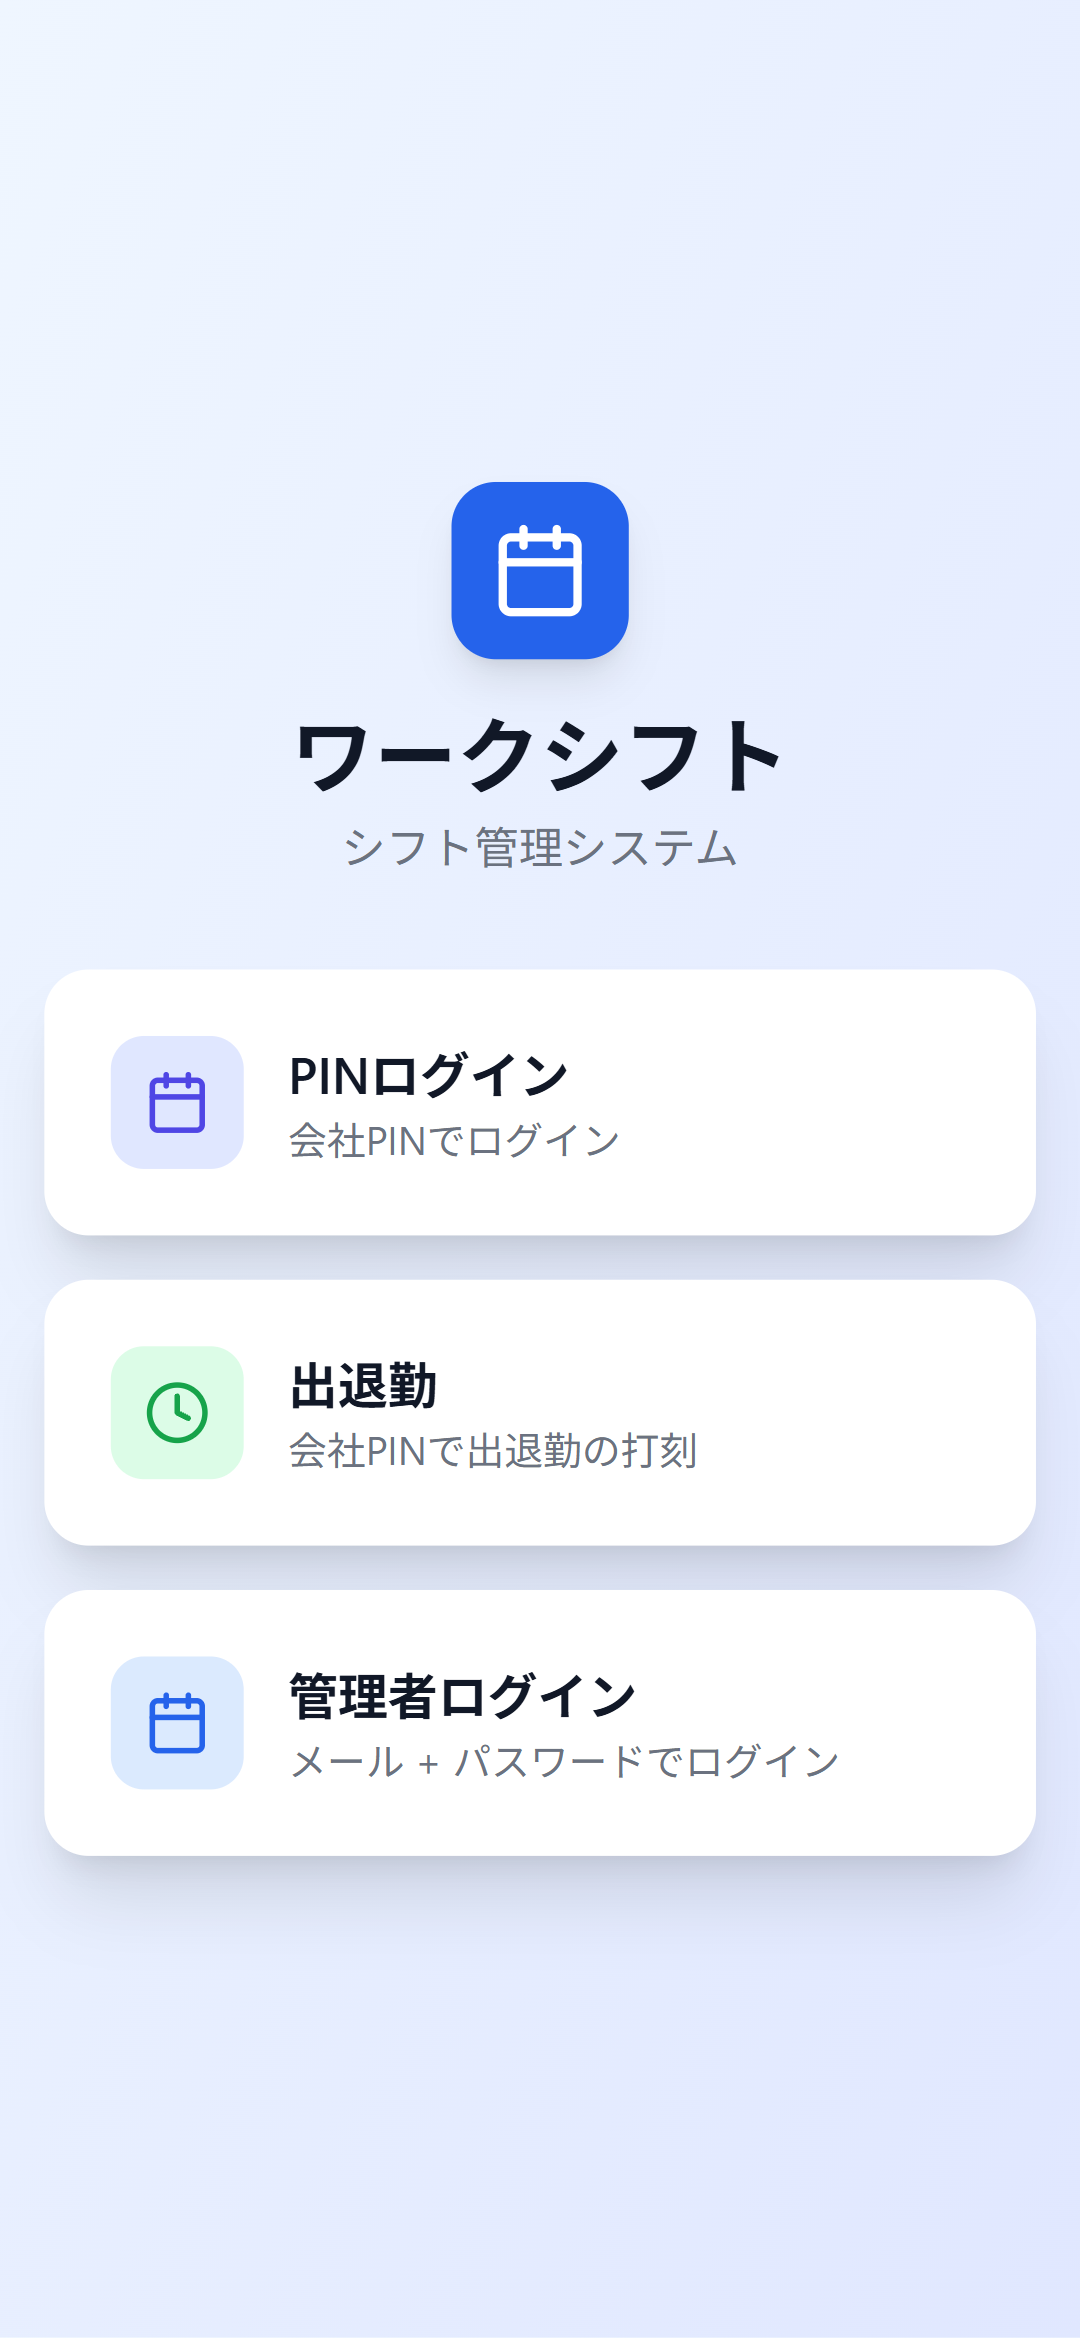
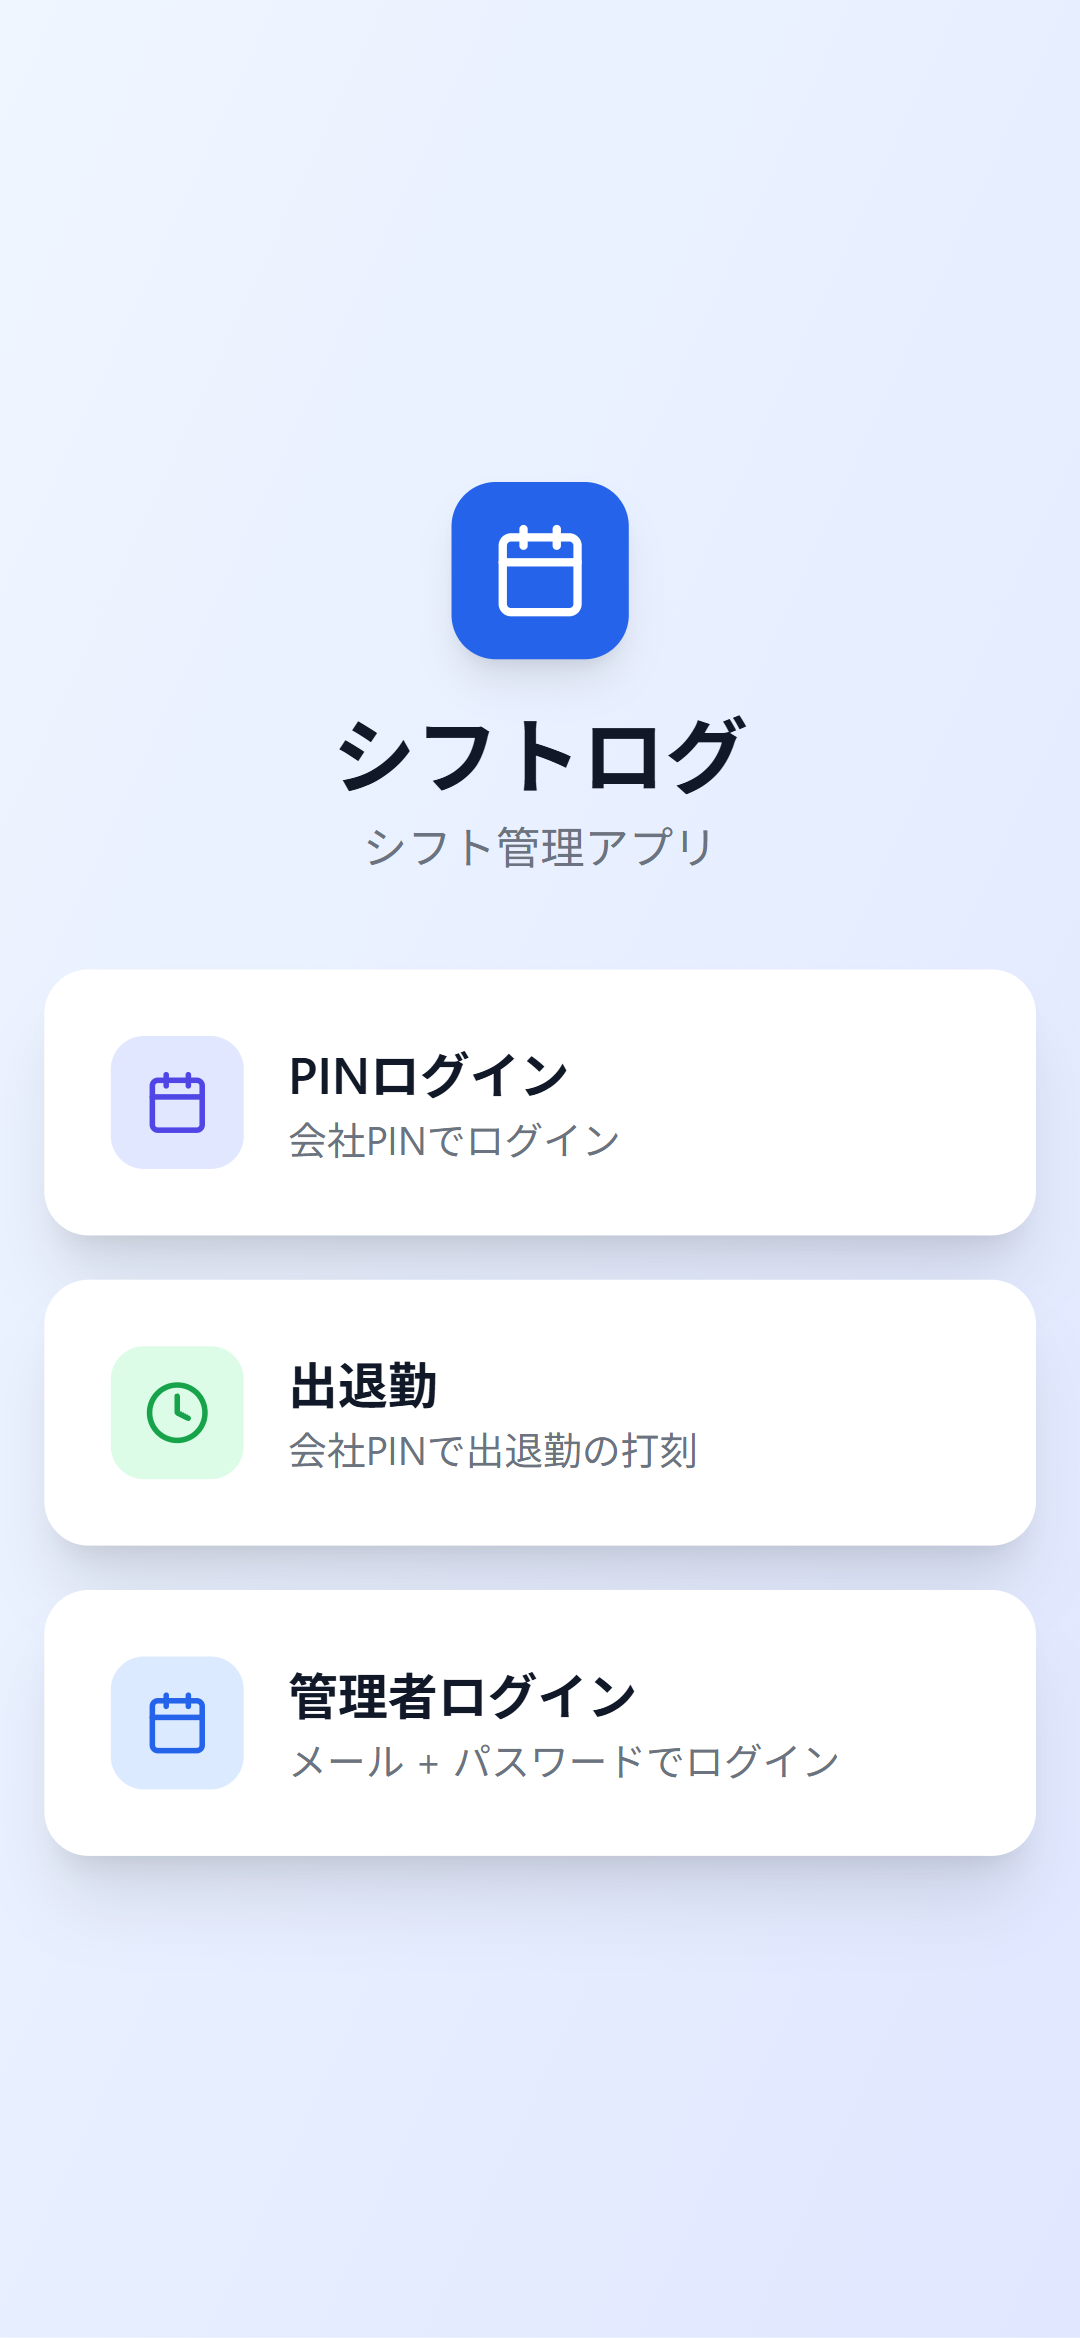
assets: ストア用スクリーンショット撮り直し（シフトログ名称反映済み）

Changed region(s): [[0.275, 0.3122, 0.7333, 0.3747]]

diff --git a/store-assets/take-screenshots.js b/store-assets/take-screenshots.js
@@ -8,58 +8,85 @@ const wait = (ms) => new Promise(r => setTimeout(r, ms));
 async function main() {
   const browser = await puppeteer.launch({ headless: true, args: ['--no-sandbox'] });
 
+  // Mobile viewport (iPhone 14 Pro equivalent, scaled for 1080x1920 output)
   const mobile = await browser.newPage();
   await mobile.setViewport({ width: 390, height: 844, deviceScaleFactor: 2.77 });
 
-  // 1. Login page
+  // 1. Login select screen
   await mobile.goto(`${BASE_URL}/login`, { waitUntil: 'networkidle2', timeout: 30000 });
-  await wait(1500);
+  await wait(2000);
   await mobile.screenshot({ path: path.join(OUT, '01_login.png'), fullPage: false });
-  console.log('1/6 Login page');
+  console.log('1/7 Login page');
 
-  // Login
+  // Click "管理者ログイン" button (3rd button on the select screen)
   try {
-    await mobile.type('input[type="email"]', 'admin@example.com');
-    await mobile.type('input[type="password"]', 'admin123');
-    const buttons = await mobile.$$('button[type="submit"]');
-    if (buttons.length > 0) await buttons[0].click();
-    await mobile.waitForNavigation({ waitUntil: 'networkidle2', timeout: 15000 }).catch(() => {});
-    await wait(2000);
+    const buttons = await mobile.$$('button');
+    for (const btn of buttons) {
+      const text = await mobile.evaluate(el => el.textContent, btn);
+      if (text && text.includes('管理者ログイン')) {
+        await btn.click();
+        break;
+      }
+    }
+    await wait(1000);
+
+    // Fill login form
+    const emailInput = await mobile.$('input[type="email"]');
+    const passwordInput = await mobile.$('input[type="password"]');
+    if (emailInput && passwordInput) {
+      await emailInput.type('admin@example.com');
+      await passwordInput.type('admin123');
+
+      // Click submit
+      const submitBtns = await mobile.$$('button[type="submit"]');
+      if (submitBtns.length > 0) await submitBtns[0].click();
+      await mobile.waitForNavigation({ waitUntil: 'networkidle2', timeout: 15000 }).catch(() => {});
+      await wait(3000);
+      console.log('Logged in successfully');
+    } else {
+      console.log('Login form not found');
+    }
   } catch (e) {
-    console.log('Login attempt:', e.message);
+    console.log('Login error:', e.message);
   }
 
   // 2. Dashboard
   await mobile.goto(`${BASE_URL}/dashboard`, { waitUntil: 'networkidle2', timeout: 15000 }).catch(() => {});
-  await wait(1500);
+  await wait(2000);
   await mobile.screenshot({ path: path.join(OUT, '02_dashboard.png'), fullPage: false });
-  console.log('2/6 Dashboard');
+  console.log('2/7 Dashboard');
 
   // 3. Shift management
   await mobile.goto(`${BASE_URL}/shifts`, { waitUntil: 'networkidle2', timeout: 15000 }).catch(() => {});
-  await wait(1500);
+  await wait(2000);
   await mobile.screenshot({ path: path.join(OUT, '03_shifts.png'), fullPage: false });
-  console.log('3/6 Shifts');
+  console.log('3/7 Shifts');
 
   // 4. Timecards
   await mobile.goto(`${BASE_URL}/timecards`, { waitUntil: 'networkidle2', timeout: 15000 }).catch(() => {});
-  await wait(1500);
+  await wait(2000);
   await mobile.screenshot({ path: path.join(OUT, '04_timecards.png'), fullPage: false });
-  console.log('4/6 Timecards');
+  console.log('4/7 Timecards');
 
   // 5. Staff
   await mobile.goto(`${BASE_URL}/staff`, { waitUntil: 'networkidle2', timeout: 15000 }).catch(() => {});
-  await wait(1500);
+  await wait(2000);
   await mobile.screenshot({ path: path.join(OUT, '05_staff.png'), fullPage: false });
-  console.log('5/6 Staff');
+  console.log('5/7 Staff');
 
   // 6. Report
   await mobile.goto(`${BASE_URL}/report`, { waitUntil: 'networkidle2', timeout: 15000 }).catch(() => {});
-  await wait(1500);
+  await wait(2000);
   await mobile.screenshot({ path: path.join(OUT, '06_report.png'), fullPage: false });
-  console.log('6/6 Report');
+  console.log('6/7 Report');
 
-  // Feature graphic (1024x500)
+  // 7. Shift Requests
+  await mobile.goto(`${BASE_URL}/shift-requests`, { waitUntil: 'networkidle2', timeout: 15000 }).catch(() => {});
+  await wait(2000);
+  await mobile.screenshot({ path: path.join(OUT, '07_shift_requests.png'), fullPage: false });
+  console.log('7/7 Shift Requests');
+
+  // Feature graphic (1024x500) for Google Play
   const wide = await browser.newPage();
   await wide.setViewport({ width: 1024, height: 500 });
   await wide.setContent(`
@@ -74,9 +101,9 @@ async function main() {
           display: flex; align-items: center; justify-content: center;
           color: white; text-align: center;
         }
-        h1 { font-size: 48px; font-weight: 800; margin: 0 0 16px; }
-        .sub { font-size: 22px; opacity: 0.9; }
-        .badge { background: rgba(255,255,255,0.2); padding: 8px 20px; border-radius: 20px; font-size: 18px; margin-top: 20px; display: inline-block; }
+        h1 { font-size: 52px; font-weight: 800; margin: 0 0 12px; }
+        .sub { font-size: 24px; opacity: 0.95; }
+        .badge { background: rgba(255,255,255,0.2); padding: 10px 24px; border-radius: 24px; font-size: 18px; margin-top: 24px; display: inline-block; }
         .price { color: #fbbf24; font-weight: 800; }
       </style>
     </head>
@@ -91,7 +118,7 @@ async function main() {
     </body>
     </html>
   `, { waitUntil: 'networkidle0' });
-  await wait(1500);
+  await wait(2000);
   await wide.screenshot({ path: path.join(OUT, 'feature_graphic.png') });
   console.log('Feature graphic done');
 
